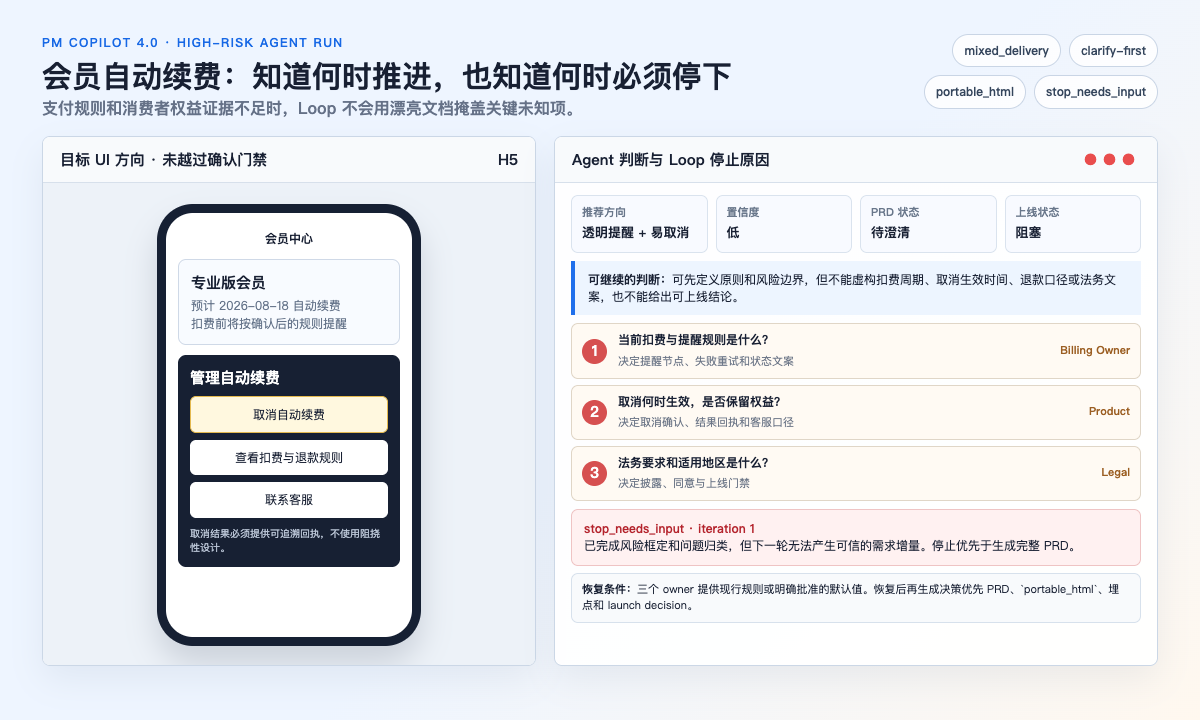
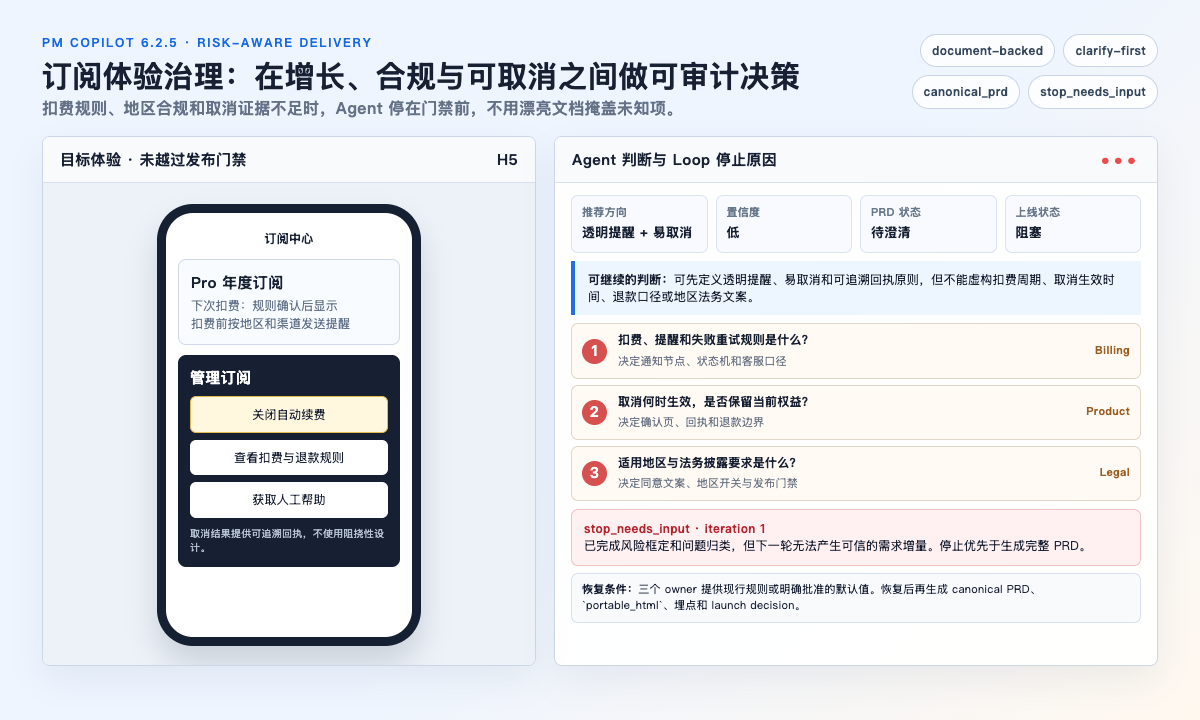
Refresh README flagship demos

diff --git a/docs/assets/readme-demo-membership-renewal.html b/docs/assets/readme-demo-membership-renewal.html
@@ -2,17 +2,17 @@
 <html lang="zh-CN">
 <head>
   <meta charset="utf-8"><meta name="viewport" content="width=device-width, initial-scale=1">
-  <title>PM Copilot 4.0 - Renewal Demo</title>
+  <title>PM Copilot 6.2.5 - Subscription Governance Demo</title>
   <style>
     *{box-sizing:border-box}body{margin:0;width:1200px;height:720px;overflow:hidden;color:#182033;background:#f4f7fb;font:15px/1.45 Inter,"PingFang SC","Microsoft YaHei",sans-serif}.page{height:100%;padding:34px 42px;background:linear-gradient(135deg,#eef5ff 0 54%,#fff8ef 100%)}header{height:102px;display:flex;justify-content:space-between;align-items:flex-start}.eyebrow{color:#1768e5;font-size:12px;font-weight:800;letter-spacing:1.4px}h1{margin:7px 0 3px;font-size:30px;line-height:1.2}.sub{color:#657187;font-size:16px;font-weight:600}.badges{display:flex;flex-wrap:wrap;width:310px;gap:8px;justify-content:flex-end}.badge{padding:7px 11px;border:1px solid #c9d5e5;border-radius:18px;background:rgba(255,255,255,.84);color:#34455c;font-size:12px;font-weight:800}.grid{display:grid;grid-template-columns:.9fr 1.1fr;gap:18px;height:530px}.panel{overflow:hidden;border:1px solid #cbd7e6;border-radius:8px;background:rgba(255,255,255,.95);box-shadow:0 14px 35px rgba(35,62,98,.08)}.head{height:46px;display:flex;align-items:center;justify-content:space-between;padding:0 17px;border-bottom:1px solid #d7e0eb;background:#f8fafc;font-weight:800}.phone-wrap{height:484px;display:grid;place-items:center;background:#edf2f8}.phone{width:264px;height:442px;padding:12px;border:9px solid #162033;border-radius:36px;background:#fff;box-shadow:0 18px 30px rgba(32,44,68,.16)}.bar{text-align:center;padding:5px 0 12px;font-size:12px;font-weight:800}.notice{padding:12px;border:1px solid #cfd9e7;border-radius:8px;background:#f8fbff}.notice h3{margin:0 0 3px;font-size:15px}.notice p{margin:0;color:#66758b;font-size:12px}.manage{margin-top:10px;padding:12px;border-radius:8px;background:#172033;color:white}.manage b{display:block;margin-bottom:7px}.button{margin-top:7px;padding:9px;border-radius:6px;background:#fff;color:#182033;text-align:center;font-size:12px}.cancel{border:1px solid #e4b94e;background:#fff8df}.fine{margin-top:8px;color:#b9c4d5;font-size:10px}.right{padding:12px 16px}.state{display:grid;grid-template-columns:repeat(4,1fr);gap:8px}.metric{padding:9px 10px;border:1px solid #dae3ee;border-radius:7px;background:#f8faff}.metric b{display:block;color:#69778b;font-size:11px}.metric span{font-size:13px;font-weight:800}.recommend{margin-top:8px;padding:10px 13px;border-left:4px solid #1f6feb;background:#edf5ff;font-size:12px}.questions{margin-top:8px}.q{display:grid;grid-template-columns:28px 1fr 76px;gap:8px;align-items:center;padding:7px 10px;border:1px solid #e0d6c7;border-radius:7px;background:#fffaf3;margin-bottom:6px}.qnum{width:25px;height:25px;display:grid;place-items:center;border-radius:50%;background:#d65050;color:#fff;font-weight:800}.q b{display:block;font-size:12px}.q small{color:#6d7788;font-size:11px}.owner{text-align:right;color:#9b5e22;font-size:11px;font-weight:800}.stop{margin-top:8px;padding:10px 12px;border:1px solid #efc4c4;border-radius:7px;background:#fff1f1;font-size:12px}.stop b{color:#b4232c}.resume{margin-top:7px;padding:8px 10px;border:1px solid #d7e1ec;border-radius:7px;background:#f8fafc;font-size:11px}.dots{color:#e94d4d;letter-spacing:4px}
   </style>
 </head><body><main class="page">
-  <header><div><div class="eyebrow">PM COPILOT 4.0 · HIGH-RISK AGENT RUN</div><h1>会员自动续费：知道何时推进，也知道何时必须停下</h1><div class="sub">支付规则和消费者权益证据不足时，Loop 不会用漂亮文档掩盖关键未知项。</div></div><div class="badges"><span class="badge">mixed_delivery</span><span class="badge">clarify-first</span><span class="badge">portable_html</span><span class="badge">stop_needs_input</span></div></header>
-  <section class="grid"><article class="panel"><div class="head"><span>目标 UI 方向 · 未越过确认门禁</span><span>H5</span></div><div class="phone-wrap"><div class="phone"><div class="bar">会员中心</div><div class="notice"><h3>专业版会员</h3><p>预计 2026-08-18 自动续费</p><p>扣费前将按确认后的规则提醒</p></div><div class="manage"><b>管理自动续费</b><div class="button cancel">取消自动续费</div><div class="button">查看扣费与退款规则</div><div class="button">联系客服</div><div class="fine">取消结果必须提供可追溯回执，不使用阻挠性设计。</div></div></div></div></article>
+  <header><div><div class="eyebrow">PM COPILOT 6.2.5 · RISK-AWARE DELIVERY</div><h1>订阅体验治理：在增长、合规与可取消之间做可审计决策</h1><div class="sub">扣费规则、地区合规和取消证据不足时，Agent 停在门禁前，不用漂亮文档掩盖未知项。</div></div><div class="badges"><span class="badge">document-backed</span><span class="badge">clarify-first</span><span class="badge">canonical_prd</span><span class="badge">stop_needs_input</span></div></header>
+  <section class="grid"><article class="panel"><div class="head"><span>目标体验 · 未越过发布门禁</span><span>H5</span></div><div class="phone-wrap"><div class="phone"><div class="bar">订阅中心</div><div class="notice"><h3>Pro 年度订阅</h3><p>下次扣费：规则确认后显示</p><p>扣费前按地区和渠道发送提醒</p></div><div class="manage"><b>管理订阅</b><div class="button cancel">关闭自动续费</div><div class="button">查看扣费与退款规则</div><div class="button">获取人工帮助</div><div class="fine">取消结果提供可追溯回执，不使用阻挠性设计。</div></div></div></div></article>
     <article class="panel"><div class="head"><span>Agent 判断与 Loop 停止原因</span><span class="dots">●●●</span></div><div class="right"><div class="state"><div class="metric"><b>推荐方向</b><span>透明提醒 + 易取消</span></div><div class="metric"><b>置信度</b><span>低</span></div><div class="metric"><b>PRD 状态</b><span>待澄清</span></div><div class="metric"><b>上线状态</b><span>阻塞</span></div></div>
-      <div class="recommend"><b>可继续的判断：</b>可先定义原则和风险边界，但不能虚构扣费周期、取消生效时间、退款口径或法务文案，也不能给出可上线结论。</div>
-      <div class="questions"><div class="q"><span class="qnum">1</span><div><b>当前扣费与提醒规则是什么？</b><small>决定提醒节点、失败重试和状态文案</small></div><span class="owner">Billing Owner</span></div><div class="q"><span class="qnum">2</span><div><b>取消何时生效，是否保留权益？</b><small>决定取消确认、结果回执和客服口径</small></div><span class="owner">Product</span></div><div class="q"><span class="qnum">3</span><div><b>法务要求和适用地区是什么？</b><small>决定披露、同意与上线门禁</small></div><span class="owner">Legal</span></div></div>
+      <div class="recommend"><b>可继续的判断：</b>可先定义透明提醒、易取消和可追溯回执原则，但不能虚构扣费周期、取消生效时间、退款口径或地区法务文案。</div>
+      <div class="questions"><div class="q"><span class="qnum">1</span><div><b>扣费、提醒和失败重试规则是什么？</b><small>决定通知节点、状态机和客服口径</small></div><span class="owner">Billing</span></div><div class="q"><span class="qnum">2</span><div><b>取消何时生效，是否保留当前权益？</b><small>决定确认页、回执和退款边界</small></div><span class="owner">Product</span></div><div class="q"><span class="qnum">3</span><div><b>适用地区与法务披露要求是什么？</b><small>决定同意文案、地区开关与发布门禁</small></div><span class="owner">Legal</span></div></div>
       <div class="stop"><b>stop_needs_input · iteration 1</b><br>已完成风险框定和问题归类，但下一轮无法产生可信的需求增量。停止优先于生成完整 PRD。</div>
-      <div class="resume"><b>恢复条件：</b>三个 owner 提供现行规则或明确批准的默认值。恢复后再生成决策优先 PRD、`portable_html`、埋点和 launch decision。</div>
+      <div class="resume"><b>恢复条件：</b>三个 owner 提供现行规则或明确批准的默认值。恢复后再生成 canonical PRD、`portable_html`、埋点和 launch decision。</div>
     </div></article></section>
 </main></body></html>

diff --git a/docs/assets/readme-demo-team-permissions.html b/docs/assets/readme-demo-team-permissions.html
@@ -3,7 +3,7 @@
 <head>
   <meta charset="utf-8">
   <meta name="viewport" content="width=device-width, initial-scale=1">
-  <title>PM Copilot 4.0 - Team Permissions Demo</title>
+  <title>PM Copilot 6.2.5 - Enterprise Access Governance Demo</title>
   <style>
     * { box-sizing: border-box; }
     body { margin: 0; width: 1200px; height: 720px; overflow: hidden; color: #172033; background: #f3f6fa; font: 15px/1.45 Inter, "PingFang SC", "Microsoft YaHei", sans-serif; }
@@ -43,20 +43,20 @@
   </style>
 </head>
 <body><main class="page">
-  <header><div><div class="eyebrow">PM COPILOT 4.0 · AGENT RUN SNAPSHOT</div><h1>团队权限管理：从源码证据到可执行产品判断</h1><div class="sub">不是顺序跑流程，而是观察现状、形成决策、验证增量并在目标达成时停止。</div></div><div class="badges"><span class="badge">mixed_delivery</span><span class="badge">full-loop</span><span class="badge">source_delta_patch</span><span class="badge">stop_success</span></div></header>
+  <header><div><div class="eyebrow">PM COPILOT 6.2.5 · EVIDENCE-BACKED DELIVERY</div><h1>企业访问治理：把 RBAC、审计与上线门禁落到一张决策图</h1><div class="sub">从源码证据到可追责交接，Agent 只在证据闭环后推进，不把推断伪装成事实。</div></div><div class="badges"><span class="badge">repo-backed</span><span class="badge">deep-agentic</span><span class="badge">canonical_prd</span><span class="badge">stop_success</span></div></header>
   <section class="grid">
-    <article class="panel"><div class="panel-head"><span>PRD 首屏：产品决策摘要</span><span class="dots">●●●</span></div>
-      <div class="strategy"><div class="metric"><b>推荐方案</b><span>分层角色 + 审计</span></div><div class="metric"><b>置信度</b><span>中高</span></div><div class="metric"><b>研发交接</b><span>有条件就绪</span></div><div class="metric"><b>上线状态</b><span>阻塞</span></div></div>
-      <div class="decision"><b>产品判断</b>复用现有成员页和 RBAC 模型，以“预设角色 + 高危权限二次确认 + 全量审计”作为 MVP；不在本轮引入任意自定义权限组合。</div>
-      <div class="scope"><div class="scope-box"><h3>MVP</h3><ul><li>邀请时选择角色</li><li>高危变更二次确认</li><li>变更前后值与操作者审计</li></ul></div><div class="scope-box no"><h3>非目标</h3><ul><li>组织级继承规则</li><li>自定义权限编辑器</li><li>跨租户角色共享</li></ul></div></div>
-      <div class="blocker"><strong>关键阻塞 SEC-1：</strong>安全负责人确认审计保留周期和超级管理员降权策略。下一检查点：安全评审，通过证据为审批记录。</div>
+    <article class="panel"><div class="panel-head"><span>PRD 首屏：治理决策摘要</span><span class="dots">●●●</span></div>
+      <div class="strategy"><div class="metric"><b>推荐方案</b><span>预设角色 + JIT</span></div><div class="metric"><b>置信度</b><span>高</span></div><div class="metric"><b>研发交接</b><span>有条件就绪</span></div><div class="metric"><b>上线状态</b><span>待安全批准</span></div></div>
+      <div class="decision"><b>产品判断</b>复用现有成员与 RBAC 证据，以“预设角色 + 高危权限二次确认 + 不可篡改审计”作为 MVP；本轮不引入任意权限组合，避免跨租户越权。</div>
+      <div class="scope"><div class="scope-box"><h3>MVP</h3><ul><li>SSO/SCIM 入组映射</li><li>高危操作 JIT 审批</li><li>变更前后值与操作者审计</li></ul></div><div class="scope-box no"><h3>非目标</h3><ul><li>组织级继承规则</li><li>自定义权限编辑器</li><li>跨租户角色共享</li></ul></div></div>
+      <div class="blocker"><strong>关键阻塞 SEC-1：</strong>安全负责人确认审计保留周期、break-glass 账户和超级管理员降权策略。下一检查点：安全评审，证据为审批记录。</div>
     </article>
     <article class="panel"><div class="panel-head"><span>Bounded Loop：每轮必须产生证据增量</span><span>3 iterations</span></div><div class="loop">
-      <div class="iteration"><span class="num">1</span><div><b>Observe · 读取真实产品面</b><small>路由、成员页、RBAC 字段、组件 token、现有埋点</small></div><span class="score">+0.29</span></div>
-      <div class="iteration"><span class="num">2</span><div><b>Decide · 收敛权限方案</b><small>拒绝自定义权限编辑器，确定 MVP 与安全门禁</small></div><span class="score">+0.24</span></div>
-      <div class="iteration"><span class="num">3</span><div><b>Verify · 交付与评审闭环</b><small>源码预览、PRD、dev tasks、验收与 PM usefulness review</small></div><span class="score">+0.18</span></div>
+      <div class="iteration"><span class="num">1</span><div><b>Observe · 建立权限证据图</b><small>路由、租户边界、RBAC 字段、SSO/SCIM、审计事件</small></div><span class="score">+0.31</span></div>
+      <div class="iteration"><span class="num">2</span><div><b>Decide · 收敛治理方案</b><small>确定 JIT 审批、break-glass 边界和 MVP 非目标</small></div><span class="score">+0.27</span></div>
+      <div class="iteration"><span class="num">3</span><div><b>Verify · 形成可追责交接</b><small>PRD、dev tasks、审计验收与 PM usefulness review</small></div><span class="score">+0.22</span></div>
       <div class="stop"><b>stop_success</b><br>交付目标已满足；上线仍由安全审批控制，Agent 不代替人工批准。</div>
-      <div class="next"><b>下一动作：</b>Security Owner 在开发联调前确认 SEC-1；完成证据为审计策略审批记录。<br><b>Memory candidate：</b>后台高危权限变更默认要求二次确认与审计。</div>
+      <div class="next"><b>下一动作：</b>Security Owner 在开发联调前确认 SEC-1；完成证据为审计策略审批记录。<br><b>Memory candidate：</b>跨租户高危权限默认要求 JIT 审批、二次确认与审计。</div>
     </div></article>
   </section>
 </main></body></html>

diff --git a/README.en.md b/README.en.md
@@ -71,49 +71,47 @@ Paste either request into an agent-enabled workspace.
 PM Copilot should classify context mode, task mode, and autonomy level first; ask blocking questions when required; then generate artifacts and validation evidence when enough information is available.
 For high-risk or evidence-poor requests, stopping at `stop_needs_input` or a human checkpoint is a valid result; the Agent should not continue merely to produce more files.
 
-### Demo 1: Team Permission Management In An Existing Project
+### Demo 1: Enterprise Access Governance And Audit Closure
 
-This verifies that PM Copilot reads code and product evidence before forming the permission model, interaction boundaries, and engineering handoff judgment instead of applying a generic permissions template.
+This repo-backed flagship case tests whether PM Copilot can turn tenant boundaries, SSO/SCIM, RBAC, high-risk access, and audit requirements into an executable product decision instead of applying a generic permissions template.
 
-![Team permission management demo screenshot](docs/assets/readme-demo-team-permissions.png)
+![Enterprise access governance demo screenshot](docs/assets/readme-demo-team-permissions.png)
 
 ```text
-We need team permission management in the admin console.
+We need to upgrade the admin console into an enterprise access-governance control plane covering tenant boundaries, SSO/SCIM provisioning, RBAC, just-in-time approval for high-risk access, and tamper-evident audit.
 
-Please inspect the existing routes, role model, member management page, permission checks, analytics conventions, and component patterns first.
-Do a small amount of external comparable-product research, but do not treat repository files as competitor research.
-If important information is missing, ask me before generation.
-If enough information is available, create the PRD, a Web UI deliverable, and issue-ready engineering tasks.
+Inspect existing routes, tenant isolation, role model, SSO/SCIM integration, permission checks, audit events, and component patterns first.
+Separate observed source facts, user decisions, and Agent inference; do not treat repository files as competitor research.
+Ask before generation when security or compliance facts are missing. When enough evidence is available, create the PRD, Web UI deliverable, engineering tasks, and launch gates.
 ```
 
 A useful run should produce:
 
 | Artifact | What to look for |
 |---|---|
-| `prd.md` | The first screen states the recommended permission approach, confidence, MVP/non-goals, key security blocker, and next checkpoint; details cover invites, role changes, permission blocking, audit, and recovery states |
+| `prd.md` | The first screen states the governance approach, confidence, tenant boundaries, MVP/non-goals, key security blocker, and next checkpoint; details cover SSO/SCIM, JIT approval, permission blocking, audit, and recovery states |
 | Web UI deliverable | Evidence-based annotated prototype or UI specification with observed/proposed behavior and fidelity notes |
 | `dev-tasks.yaml` | Issue-ready engineering tasks, dependencies, acceptance criteria, test notes, likely host files, and blocking confirmations |
 | `run-log.yaml` | Agent selection of `mixed_delivery` and autonomy level, source evidence, product decisions, Loop progress and stop reason, next actions, accountable critical path, and memory candidates |
 
-### Demo 2: Membership Auto-Renewal Optimization Without A Code Repository
+### Demo 2: Subscription Experience Governance And Release Gates
 
-This verifies that PM Copilot does not mechanically produce every artifact for a payment and consumer-rights scenario: it stops with `stop_needs_input` when evidence is insufficient and proceeds only when the gates are satisfied.
+This document-backed high-risk case tests whether PM Copilot can establish auditable decisions across growth, payment, consumer rights, and regional compliance. It stops with `stop_needs_input` when evidence is insufficient instead of hiding unknowns behind polished documents.
 
-![Membership auto-renewal demo screenshot](docs/assets/readme-demo-membership-renewal.png)
+![Subscription experience governance demo screenshot](docs/assets/readme-demo-membership-renewal.png)
 
 ```text
-We want to improve the H5 membership auto-renewal experience. Users say renewal reminders are unclear, the cancellation entry is hard to find, and support tickets are increasing.
+We need to govern a cross-region subscription experience: make billing, reminders, cancellation, and refund boundaries clear while reducing complaints without sacrificing reasonable retention.
 
-The business goal is to reduce renewal-related complaints without materially hurting membership retention.
-If you need current billing rules, reminder timing, cancellation paths, support scripts, legal requirements, or metric definitions, ask me first.
-When enough information is available, create the PRD, H5 UI deliverable, tracking plan, and launch decision recommendation.
+Ask first for current billing and retry rules, applicable regions, cancellation effective time, refund policy, support scripts, legal disclosures, and metric baselines.
+When enough information is available, create the canonical PRD, H5 UI deliverable, tracking plan, and launch decision recommendation; stop whenever a missing fact could change the solution.
 ```
 
 A useful run should produce:
 
 | Artifact | What to look for |
 |---|---|
-| `prd.md` | The first screen states the recommendation, confidence, blockers, and separate PRD/engineering/launch statuses; details cover reminders, cancellation, payment, support, legal risks, and non-goals |
+| `prd.md` | The first screen states the recommendation, confidence, blockers, and separate PRD/engineering/launch statuses; details cover regional differences, reminders, cancellation, payment, support, legal risks, and non-goals |
 | `prototype-h5.html` | `portable_html` UI deliverable for no-code/document-backed starts, covering membership center entry, renewal reminder, auto-renewal management, cancellation confirmation, result receipt, logged-out/no-membership/API-failure states |
 | Tracking table inside the PRD | Events such as `renewal_notice_view`, `renewal_manage_open`, `renewal_cancel_submit`, `renewal_cancel_result`, plus privacy notes |
 | `launch-decision.yaml` | Engineering-ready scope, launch blockers, legal/payment/support owners, rollback recommendation, and missing human approvals |

diff --git a/README.md b/README.md
@@ -66,49 +66,47 @@ PM Copilot 将中文和英文都视为一等用户语言。
 PM Copilot 会先识别上下文模式、任务模式和自治等级；缺关键信息时先问问题，信息足够后生成交付物并记录验证结果。
 对于高风险或证据不足的请求，正确停在 `stop_needs_input` 或人工检查点也是有效结果，不应为了展示文件数量继续生成。
 
-### Demo 1：已有项目里的团队权限管理
+### Demo 1：企业级访问治理与审计闭环
 
-适合验证 PM Copilot 会先读取代码和产品证据，再形成权限模型、交互边界和研发交接判断，而不是套一份权限管理模板。
+这是一个 repo-backed 的旗舰案例：验证 PM Copilot 能否把多租户边界、SSO/SCIM、RBAC、高危权限和审计要求收敛成可执行的产品决策，而不是套一份权限管理模板。
 
-![团队权限管理 Demo 截图](docs/assets/readme-demo-team-permissions.png)
+![企业访问治理 Demo 截图](docs/assets/readme-demo-team-permissions.png)
 
 ```text
-我们要在后台管理端做团队权限管理。
+我们要把后台管理端升级为企业级访问治理控制台，覆盖多租户边界、SSO/SCIM 入组、RBAC、高危权限 JIT 审批和不可篡改审计。
 
-请先检查现有项目里的路由、角色模型、成员管理页面、权限判断、埋点约定和组件风格。
-需要做少量外部同类产品参考，但不要把仓库文件当成竞品调研。
-如果关键信息不够，请先问我。
-如果信息足够，请输出 PRD、Web UI 交付物，并补一份可转 issue 的研发任务拆分。
+请先检查现有项目里的路由、租户隔离、角色模型、SSO/SCIM 接入、权限判断、审计事件和组件风格。
+把源码观察到的事实、用户需要确认的决策和 Agent 推断严格分开；不要把仓库文件当成竞品调研。
+如果关键安全或合规信息不够，请先问我；信息足够后再输出 PRD、Web UI 交付物、研发任务和上线门禁。
 ```
 
 一次有效运行应能产出：
 
 | 产物 | 应该看到什么 |
 |---|---|
-| `prd.md` | 首屏直接给出推荐权限方案、置信度、MVP/非目标、关键安全阻塞和下一检查点；需求详情覆盖邀请、角色变更、权限拦截、审计和异常恢复 |
+| `prd.md` | 首屏给出治理方案、置信度、MVP/非目标、租户边界、关键安全阻塞和下一检查点；需求详情覆盖 SSO/SCIM、JIT 审批、权限拦截、审计和异常恢复 |
 | Web UI 交付物 | 基于只读源码、现有页面、截图或设计系统证据的标注原型或 UI 规格；明确区分现状、提议行为、保真度和研发 owner |
 | `dev-tasks.yaml` | 可转 issue 的研发任务、依赖关系、验收标准、测试建议、相关宿主项目文件和阻塞确认项 |
 | `run-log.yaml` | Agent 选择 `mixed_delivery` 和合适自治等级，记录源码证据、产品决策、Loop 进展、停止原因、下一步、可追责关键路径和 memory candidates |
 
-### Demo 2：没有代码仓库的会员自动续费优化
+### Demo 2：订阅体验治理与合规发布门禁
 
-适合验证 PM Copilot 面对支付和消费者权益风险时不会机械生成全套文件：证据不足就停在 `stop_needs_input`，信息足够后才推进方案、UI、埋点和上线判断。
+这是一个 document-backed 的高风险案例：验证 PM Copilot 能否在增长、支付、消费者权益和地区合规之间建立可审计决策；证据不足就停在 `stop_needs_input`，不会用漂亮文档掩盖未知项。
 
-![会员自动续费 Demo 截图](docs/assets/readme-demo-membership-renewal.png)
+![订阅体验治理 Demo 截图](docs/assets/readme-demo-membership-renewal.png)
 
 ```text
-我们想优化 H5 会员自动续费体验。用户反馈续费提醒不清楚，取消入口难找，客服工单也在增加。
+我们要治理跨地区订阅体验：让用户清楚知道扣费、提醒、取消和退款边界，同时降低投诉，不牺牲合理留存。
 
-业务目标是降低续费相关投诉，同时不要误伤会员留存。
-如果需要我补充当前扣费规则、提醒周期、取消路径、客服口径、法务要求或指标口径，请先问我。
-信息足够后，请输出 PRD、H5 UI 交付物、埋点方案，并给出上线决策建议。
+请先询问当前扣费与失败重试规则、地区适用范围、取消生效时间、退款口径、客服脚本、法务披露和指标基线。
+信息足够后，请输出 canonical PRD、H5 UI 交付物、埋点方案和上线决策建议；缺失任何会改变方案的事实时必须停下。
 ```
 
 一次有效运行应能产出：
 
 | 产物 | 应该看到什么 |
 |---|---|
-| `prd.md` | 首屏显示推荐策略、置信度、关键阻塞、PRD/研发/上线三类状态；正文覆盖提醒、取消、支付、客服、法务风险和非目标 |
+| `prd.md` | 首屏显示推荐策略、置信度、关键阻塞、PRD/研发/上线三类状态；正文覆盖地区差异、提醒、取消、支付、客服、法务风险和非目标 |
 | `prototype-h5.html` | 无代码或文档起步时的 H5 portable HTML UI 交付物，覆盖会员中心入口、续费提醒、自动续费管理、取消确认、结果回执、未登录/无会员/接口失败等访问态和边界状态 |
 | PRD 内埋点表 | `renewal_notice_view`、`renewal_manage_open`、`renewal_cancel_submit`、`renewal_cancel_result` 等事件和隐私说明 |
 | `launch-decision.yaml` | 工程可交接范围、上线阻塞项、法务/支付/客服 owner、回滚建议和人工批准缺口 |

diff --git a/CHANGELOG.md b/CHANGELOG.md
@@ -6,6 +6,13 @@ The project uses three-segment semantic versioning: `MAJOR.MINOR.PATCH`.
 Historical entries below are reconstructed from the git commit order so every committed change has a version entry.
 See `docs/versioning.md` for upgrade rules, compatibility policy, and release checklist.
 
+## [6.2.6] - 2026-08-22
+
+### Changed
+
+- Replaced the README demos with evidence-backed enterprise access governance and subscription release-gate scenarios.
+- Refreshed both demo HTML snapshots and PNG previews to match the current runtime contract.
+
 ## [6.2.5] - 2026-08-22
 
 ### Changed
